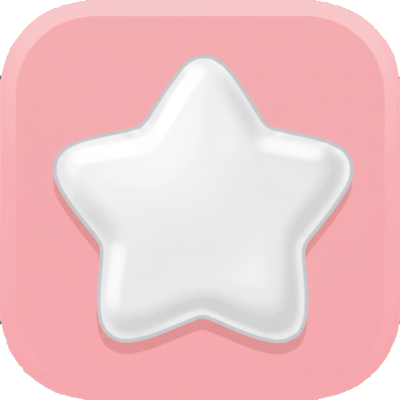
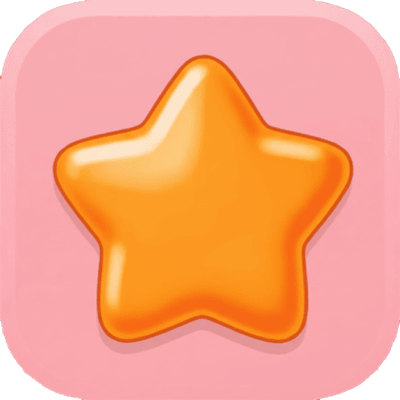
vamos bien

diff --git a/boby/lib/ui/screens/setting_screen/widgets/more_apps.dart b/boby/lib/ui/screens/setting_screen/widgets/more_apps.dart
@@ -1,13 +1,11 @@
-import 'package:boby/utils/colors.dart';
 import 'package:flutter/material.dart';
-import 'package:boby/utils/functions.dart';
 import 'package:share_plus/share_plus.dart';
 
 class MoreApps extends StatelessWidget {
   const MoreApps({super.key});
 
   final List<Map<String, String>> apps = const [
-     {
+    {
       "name": "Boby",
       "image": "assets/icon/icon.jpg",
       "url": "https://apps.apple.com/hn/app/boby/id6753878717",
@@ -49,7 +47,8 @@ class MoreApps extends StatelessWidget {
                   // Share the app URL
                   Share.share(
                     'Check out ${app['name']} on the App Store: ${app['url']}',
-                    subject: '${app['name']} - ${app['description']?.split('.').first}...',
+                    subject:
+                        '${app['name']} - ${app['description']?.split('.').first}...',
                   );
                 },
                 child: Padding(
@@ -73,9 +72,7 @@ class MoreApps extends StatelessWidget {
                           children: [
                             Text(
                               app["name"]!,
-                              style: Theme.of(context)
-                                  .textTheme
-                                  .titleMedium
+                              style: Theme.of(context).textTheme.titleMedium
                                   ?.copyWith(
                                     fontWeight: FontWeight.w600,
                                     color: Colors.black87,
@@ -86,9 +83,7 @@ class MoreApps extends StatelessWidget {
                               app["description"]!,
                               maxLines: 5,
                               overflow: TextOverflow.ellipsis,
-                              style: Theme.of(context)
-                                  .textTheme
-                                  .bodyMedium
+                              style: Theme.of(context).textTheme.bodyMedium
                                   ?.copyWith(
                                     color: Colors.black54,
                                     height: 1.2,
@@ -98,11 +93,7 @@ class MoreApps extends StatelessWidget {
                         ),
                       ),
                       const SizedBox(width: 8),
-                       Icon(
-                        Icons.share,
-                        color: Colors.green,  
-                        size: 20,
-                      ),
+                      Icon(Icons.share, color: Colors.green, size: 20),
                     ],
                   ),
                 ),

diff --git a/boby/lib/ui/screens/bonus_sreen/true_or_false_bonus/true_or_false.dart b/boby/lib/ui/screens/bonus_sreen/true_or_false_bonus/true_or_false.dart
@@ -193,6 +193,7 @@ class _TrueOrFalseBonusScreenState extends State<TrueOrFalseBonusScreen> {
   Widget build(BuildContext context) {
     final appController = Get.find<AppController>();
     final screenWidth = MediaQuery.of(context).size.width;
+    final isTablet = screenWidth > Constants.tabletSize;
 
     return Scaffold(
       appBar: AppBar(title: WordOfImages(letters: 'BONUS', letterSize: 30)),
@@ -244,6 +245,21 @@ class _TrueOrFalseBonusScreenState extends State<TrueOrFalseBonusScreen> {
                     },
                   ),
                 ),
+              ),
+
+              //True or false
+              Row(
+                mainAxisAlignment: MainAxisAlignment.center,
+                children: [
+                  WordOfImages(letters: 'TRUE', letterSize: isTablet ? 35 : 20),
+
+                  WordOfImages(letters: 'OR', letterSize: isTablet ? 35 : 20),
+
+                  WordOfImages(
+                    letters: 'FALSE',
+                    letterSize: isTablet ? 35 : 20,
+                  ),
+                ],
               ),
 
               Expanded(
@@ -315,9 +331,13 @@ class _TrueOrFalseBonusScreenState extends State<TrueOrFalseBonusScreen> {
                                     ),
 
                                     Spacer(),
-                                    WordOfImages(
-                                      letters: displayedName.toUpperCase(),
-                                      letterSize: 25,
+                                    Text(
+                                      displayedName,
+                                      style: TextStyle(
+                                        fontSize: 35,
+                                        fontWeight: FontWeight.bold,
+                                        color: MyColors.darkBlue,
+                                      ),
                                     ),
                                     Spacer(),
                                   ],

diff --git a/boby/lib/ui/screens/bonus_sreen/match_it/match_it.dart b/boby/lib/ui/screens/bonus_sreen/match_it/match_it.dart
@@ -19,25 +19,6 @@ class MatchItScreen extends StatefulWidget {
   State<MatchItScreen> createState() => _MatchItScreenState();
 }
 
-class _FigureTarget extends StatelessWidget {
-  final String imagePath;
-  const _FigureTarget({required this.imagePath});
-
-  @override
-  Widget build(BuildContext context) {
-    return AspectRatio(
-      aspectRatio: 1.3,
-      child: FittedBox(
-        fit: BoxFit.contain,
-        child: ClipRRect(
-          borderRadius: BorderRadius.circular(50),
-          child: Image.asset(imagePath),
-        ),
-      ),
-    );
-  }
-}
-
 enum _RoundType { shape, number, figure }
 
 class _MatchItScreenState extends State<MatchItScreen> {
@@ -99,6 +80,7 @@ class _MatchItScreenState extends State<MatchItScreen> {
   // Current round state
   _RoundType _roundType = _RoundType.shape;
   // Shape round
+  // ignore: unused_field
   String? _targetShapePath;
   (String, Color)? _targetColor;
   late List<(String, Color)> _colorOptions;
@@ -117,6 +99,7 @@ class _MatchItScreenState extends State<MatchItScreen> {
   List<Map<String, String>> _figureAssets = [];
   // Feedback state
   bool _isLocked = false; // prevents taps during feedback
+  // ignore: unused_field
   bool _showCorrectOverlay = false; // show green check over the target
 
   // Timer state

diff --git a/boby/lib/ui/screens/drag_and_drop_screen/drag_and_drop_screen.dart b/boby/lib/ui/screens/drag_and_drop_screen/drag_and_drop_screen.dart
@@ -3,16 +3,12 @@ import 'package:boby/ui/screens/word_guess/widgets/celebration_image.dart';
 import 'package:boby/ui/shared/score.dart';
 import 'package:flutter/material.dart';
 import 'package:get/get.dart';
-import 'package:dotted_border/dotted_border.dart'
-    show DottedBorder, RoundedRectDottedBorderOptions;
 import '../../../utils/constants.dart';
 import '../../shared/word_of_images.dart';
 import 'widgets/card_sound.dart';
 import 'package:boby/controllers/app_controller.dart';
 import 'package:just_audio/just_audio.dart';
 import 'package:boby/services/storage_service.dart';
-
-import 'dart:math'; // Added import
 
 class ListCardSounds extends StatefulWidget {
   const ListCardSounds({super.key});

diff --git a/boby/lib/ui/screens/memory_screen/widgets/memory_card.dart b/boby/lib/ui/screens/memory_screen/widgets/memory_card.dart
@@ -82,7 +82,6 @@ class _MemoryCardState extends State<MemoryCard>
   Widget build(BuildContext context) {
     final screenSize = MediaQuery.of(context).size;
     final width = screenSize.width;
-    final height = screenSize.height;
     final bool isLargeScreen = width > 600;
 
     return GestureDetector(
@@ -130,6 +129,7 @@ class _MemoryCardState extends State<MemoryCard>
         borderRadius: BorderRadius.circular(12),
         boxShadow: [
           BoxShadow(
+            // ignore: deprecated_member_use
             color: Colors.black.withOpacity(0.2),
             blurRadius: 4,
             offset: const Offset(0, 2),

diff --git a/boby/lib/ui/screens/setting_screen/setting_sacreen.dart b/boby/lib/ui/screens/setting_screen/setting_sacreen.dart
@@ -1,7 +1,6 @@
 import 'package:boby/ui/screens/setting_screen/widgets/background_settins.dart';
 import 'package:boby/ui/screens/setting_screen/widgets/badge_setting.dart';
 import 'package:boby/ui/screens/setting_screen/widgets/bonus_setting.dart';
-import 'package:boby/ui/screens/setting_screen/widgets/match_it_sattings.dart';
 import 'package:boby/ui/screens/setting_screen/widgets/memory_settings.dart';
 import 'package:boby/ui/screens/setting_screen/widgets/more_apps.dart';
 import 'package:boby/ui/screens/setting_screen/widgets/scramble_setting.dart';

diff --git a/boby/lib/controllers/app_controller.dart b/boby/lib/controllers/app_controller.dart
@@ -144,11 +144,11 @@ class AppController extends GetxController {
   //functions for bonus screen
   //esta funcion guarda en bonusScreen un numero aleatorio entre 0 y 6
   void setBonusScreen() {
-    Random _rng = Random();
-    if (bonusScreen.value <= 3) {
-      bonusScreen.value = _rng.nextInt(4);
+    Random rng = Random();
+    if (bonusScreen.value <= 4) {
+      bonusScreen.value = rng.nextInt(5);
     } else {
-      bonusScreen.value = _rng.nextInt(10);
+      bonusScreen.value = rng.nextInt(10);
     }
   }
 }

diff --git a/boby/lib/utils/routes.dart b/boby/lib/utils/routes.dart
@@ -2,7 +2,6 @@ import 'package:boby/ui/screens/bonus_sreen/complete_sentence/complete_sentence.
 import 'package:boby/ui/screens/bonus_sreen/match_it/match_it.dart';
 import 'package:boby/ui/screens/bonus_sreen/to_be_bonus_screen/to_be_bonus_screen.dart';
 import 'package:boby/ui/screens/bonus_sreen/true_or_false_bonus/true_or_false.dart';
-import 'package:boby/ui/screens/tales_scrren/tales.dart';
 import 'package:get/get.dart';
 
 import '../ui/screens/bonus_sreen/float_words/bonus_screen.dart';

diff --git a/boby/lib/ui/screens/setting_screen/widgets/bonus_setting.dart b/boby/lib/ui/screens/setting_screen/widgets/bonus_setting.dart
@@ -42,9 +42,9 @@ class BonusSettings extends StatelessWidget {
         "bonus_screen": CompleteSentence.route,
       },
       {
-        "name": "White",
+        "name": "Orange",
         "image": "assets/bonus_true_or_false.png",
-        "color": const Color.fromARGB(255, 212, 212, 212),
+        "color": Colors.orange,
         "explanation": "Select true or false to earn points.",
         "bonus_screen": TrueOrFalseBonusScreen.routeName,
       },

diff --git a/boby/lib/ui/screens/scramble_word/scramble_screen.dart b/boby/lib/ui/screens/scramble_word/scramble_screen.dart
@@ -117,7 +117,6 @@ class _ScrambleScreenState extends State<ScrambleScreen> {
   Widget build(BuildContext context) {
     final screenSize = MediaQuery.of(context).size;
     final width = screenSize.width;
-    final height = screenSize.height;
     final appController = Get.find<AppController>();
     final bool isLargeScreen = width > 600;
 

diff --git a/boby/lib/ui/screens/drag_and_drop_screen/widgets/card_sound.dart b/boby/lib/ui/screens/drag_and_drop_screen/widgets/card_sound.dart
@@ -139,6 +139,7 @@ class _CardSoundState extends State<CardSound>
 
   // Check if the device is an iPad
   bool get isTablet {
+    // ignore: deprecated_member_use
     final data = MediaQueryData.fromView(WidgetsBinding.instance.window);
     return data.size.shortestSide >=
         600; // 600 is a common breakpoint for tablets

diff --git a/boby/lib/ui/screens/tales_scrren/tales.dart b/boby/lib/ui/screens/tales_scrren/tales.dart
@@ -9,8 +9,6 @@ import 'package:get/get.dart';
 import 'package:google_fonts/google_fonts.dart';
 import 'package:just_audio/just_audio.dart';
 
-import '../../../utils/constants.dart';
-
 class TalesScreen extends StatefulWidget {
   static const String routeName = '/tales';
   const TalesScreen({super.key});
